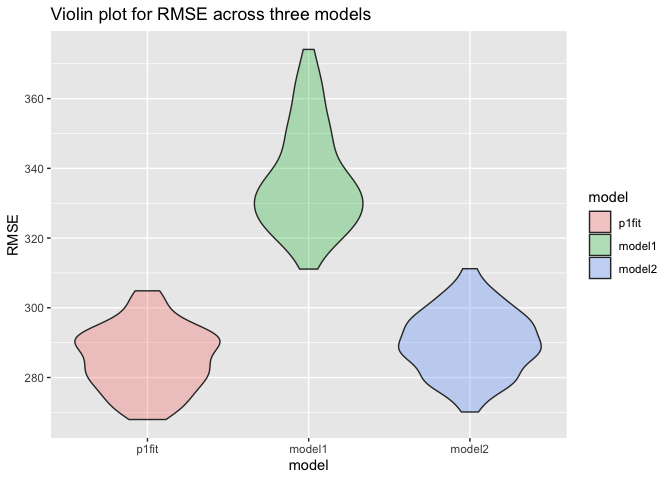
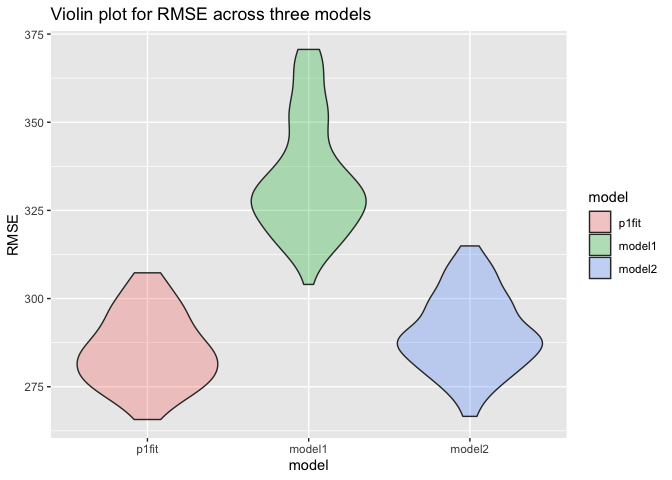
log

diff --git a/HW6.md b/HW6.md
@@ -278,9 +278,12 @@ Cross_validation %>%
   )
 ```
 
-![](HW6_files/figure-gfm/unnamed-chunk-9-1.png)<!-- -->
+![](HW6_files/figure-gfm/unnamed-chunk-9-1.png)<!-- --> From the violin
+graph above, we can see that model 2 are better in fitting.
 
 # Problem 2
+
+Run the provided code
 
 ``` r
 weather_df = 
@@ -305,3 +308,59 @@ weather_df =
     ## date created (size, mb): 2021-12-04 18:41:21 (7.616)
 
     ## file min/max dates: 1869-01-01 / 2021-12-31
+
+-   Use 5000 bootstrap samples and, for each bootstrap sample, produce
+    estimates of these two quantities.
+
+``` r
+boot_strap =
+ weather_df %>% 
+  modelr::bootstrap(n = 5000) %>% 
+  mutate(
+    models = map(strap, ~lm(tmax ~ tmin, data = .x) ),
+    results = map(models, broom::glance)) %>% 
+  select(-strap, -models) %>% 
+  unnest(results)
+
+CI = quantile(pull(boot_strap,r.squared), probs = c(0.025, 0.975))  
+```
+
+The mean is 0.91149, the CI is 0.8939303 0.9267355
+
+R^2 graph
+
+``` r
+boot_strap %>%
+  ggplot(aes(x = r.squared)) +
+  geom_density() + 
+  labs(
+    title = "The distribution of R squared"
+  )
+```
+
+![](HW6_files/figure-gfm/unnamed-chunk-12-1.png)<!-- --> The
+distribution of r^2 is unimodal and approximately symmetric.
+
+-   log(β\_0∗β\_1)
+
+``` r
+log_df = weather_df %>% 
+  modelr::bootstrap(n = 5000) %>% 
+  mutate(
+    models = map(strap, ~lm(tmax ~ tmin, data = .x) ),
+    results = map(models, broom::tidy)) %>% 
+  select(-strap, -models) %>% 
+  janitor::clean_names() %>%
+  unnest(results)
+
+
+log = log_df %>%
+  select(id, term, estimate) %>%
+  pivot_wider(
+    names_from = "term",
+    values_from = "estimate"
+  ) %>%
+  mutate(
+    log = log(`(Intercept)` *tmin)
+  )
+```
